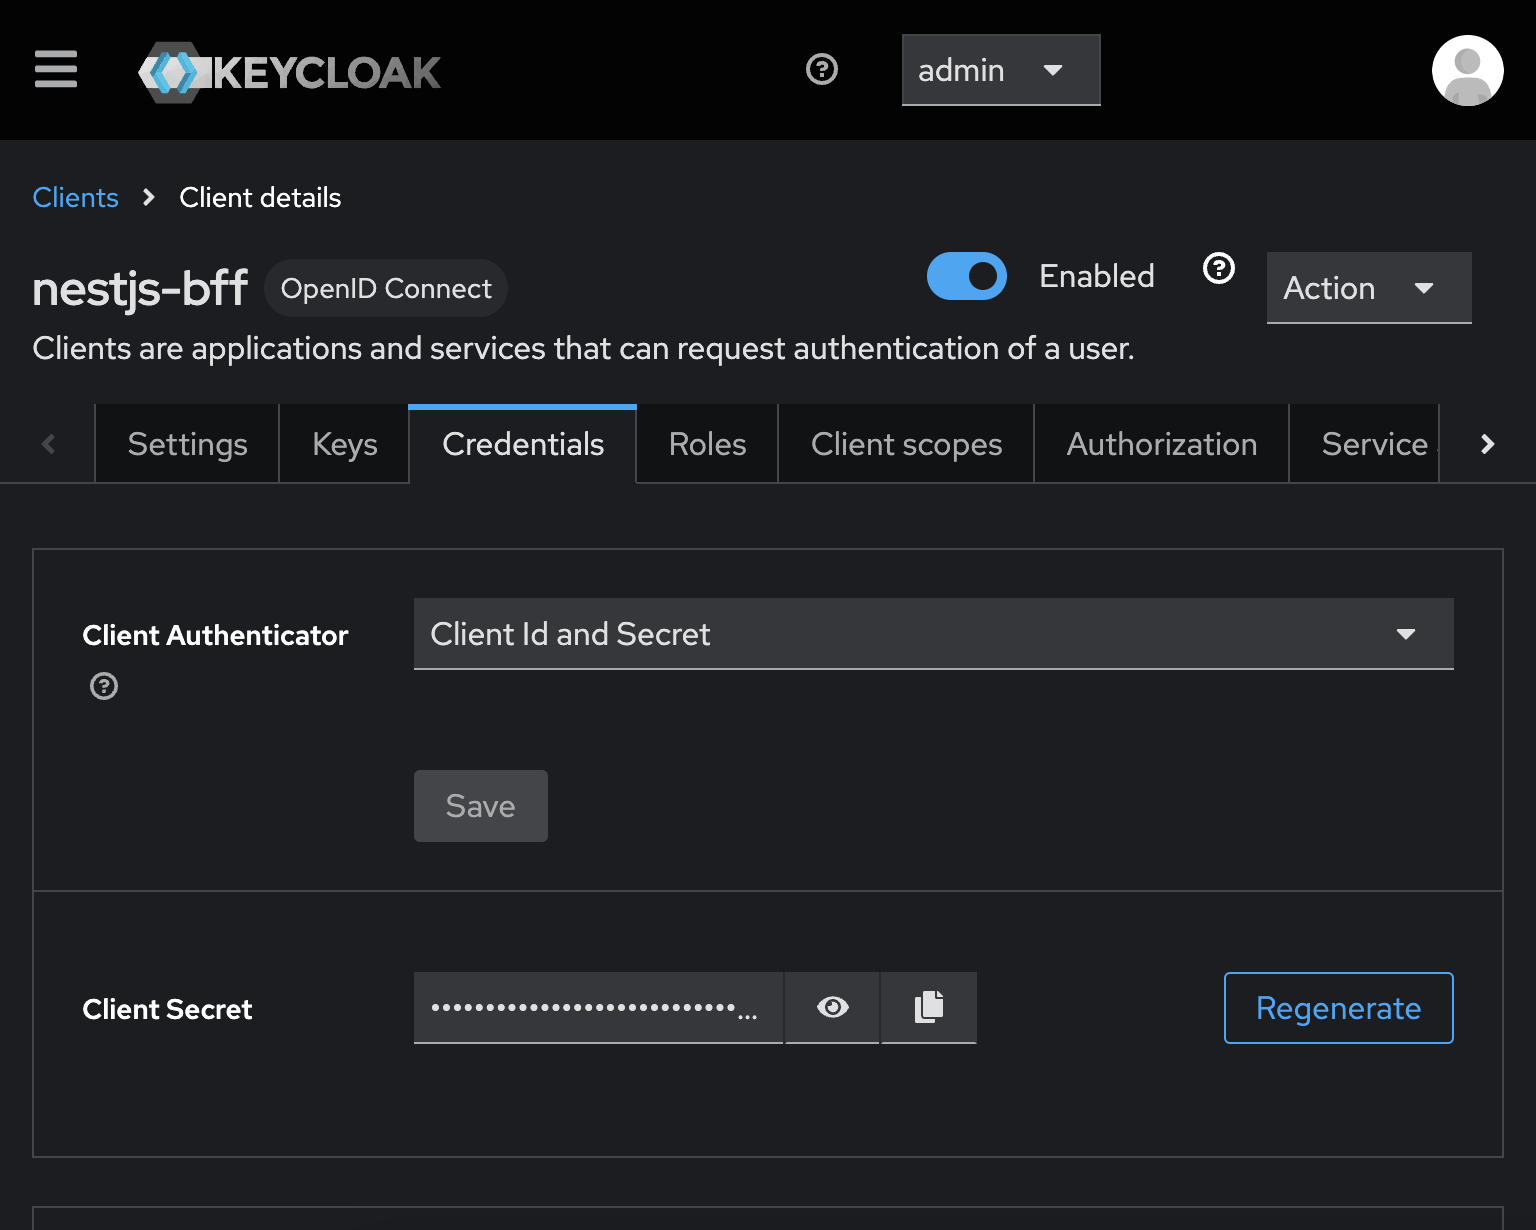
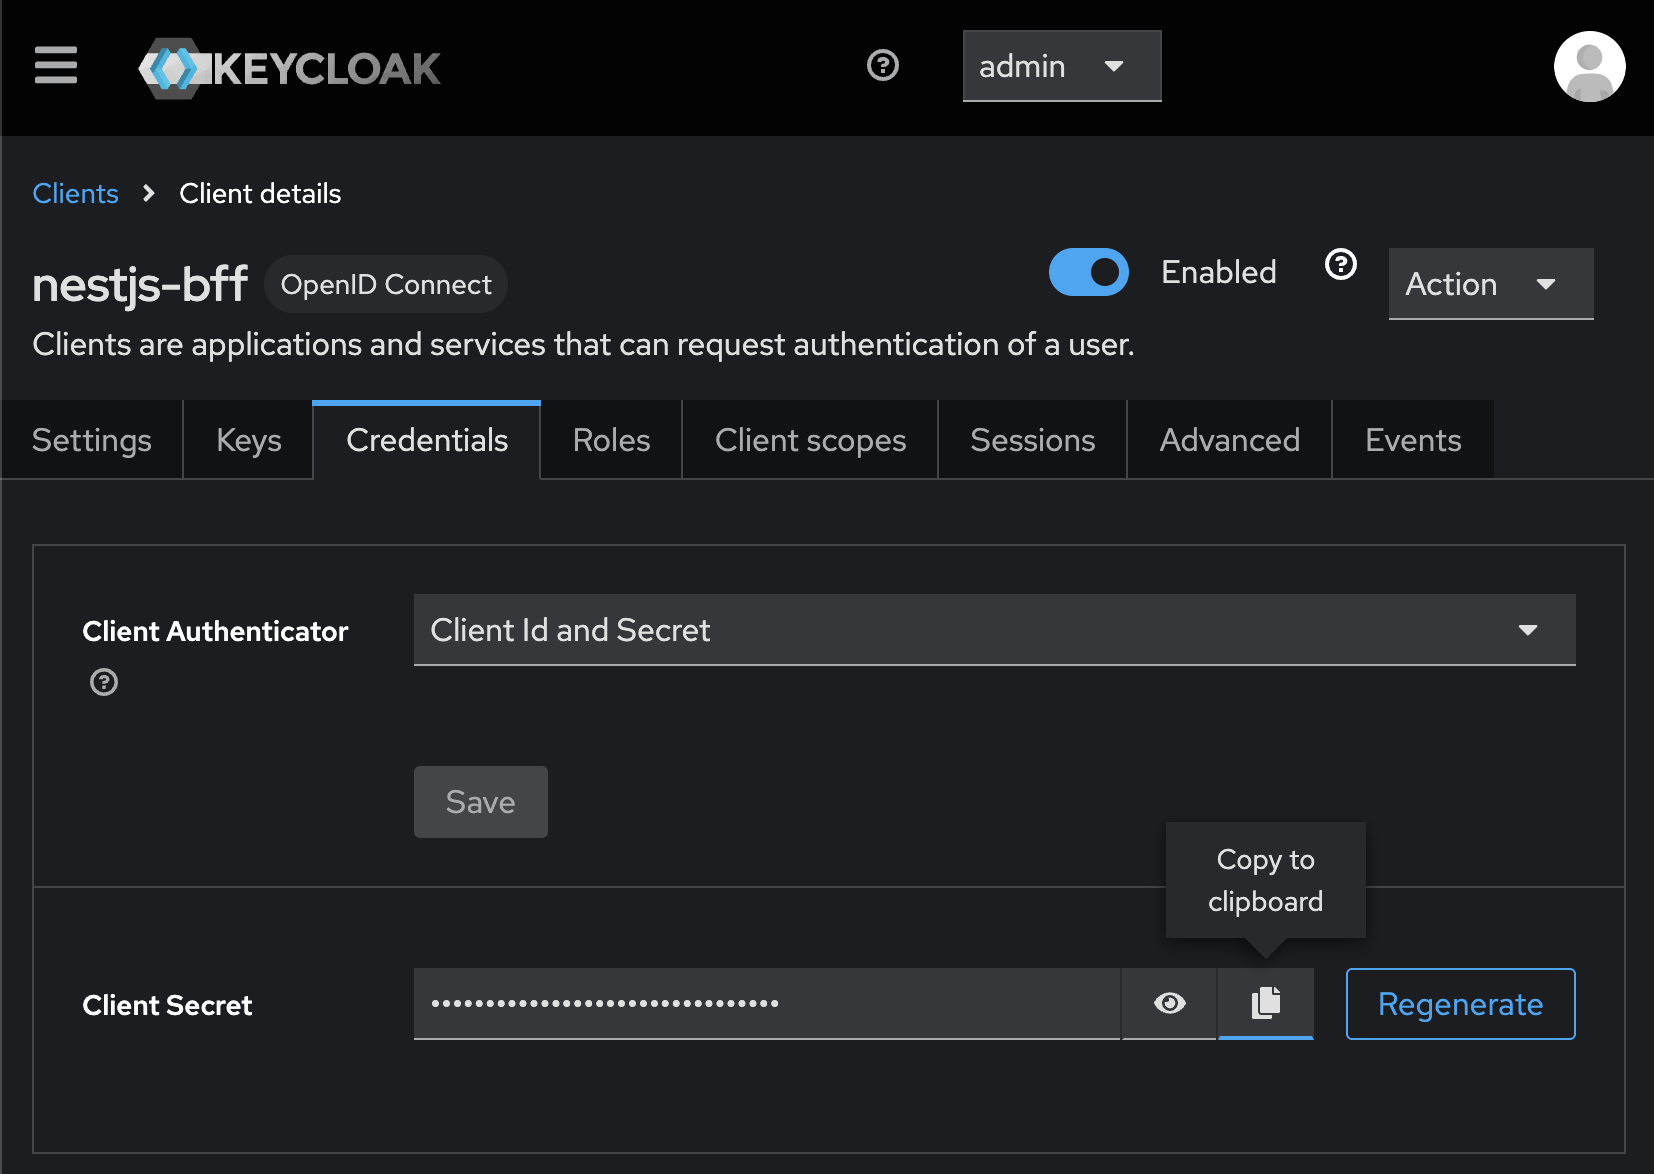
[fix] update README

diff --git a/README.md b/README.md
@@ -57,50 +57,45 @@ The supported types of API endpoint of this BFF is listed in below.
 ### 1. Run the Keycloak Container
 
 ```bash
-$ ./run-keycloak-container.sh [<PORT> <ADMIN_USERNAME> <ADMIN_PASSWORD>]
+$ ./run-keycloak-container.sh [<KEYCLOAK_PORT> <KEYCLOAK_ADMIN_USERNAME> <KEYCLOAK_ADMIN_PASSWORD>]
 ```
 
-### 2. Setup Keycloak
+### 2. Get Keycloak Client Secret
+
+> [!NOTE]
+> Keycloak `dev` realm will be automatically created by importing it from the JSON when the container starts.
 
 #### 2.1. Login Keycloak as Admin User
 
-![Keycloak login page](./img/keycloak-login.png)
+> [!TIP]
+> Please restart your Keycloak container if you cannot access `localhost:<KEYCLOAK_PORT>`.
 
-#### 2.2. Create Keycloak Realm
+![Keycloak admin login page](./img/keycloak-admin-login.png)
 
-![Keycloak realm creation page](./img/keycloak-realm.png)
+#### 2.2. Select Keycloak Realm: `dev`
 
-#### 2.3. Create Keycloak Client
+![Keycloak realms menu tab](./img/keycloak-realms-menu.png)
 
-![Keycloak client creation page 1/3](./img/keycloak-client-01.png)
+![Keycloak realms select page](./img/keycloak-realms-select.png)
 
-![Keycloak client creation page 2/3](./img/keycloak-client-02.png)
+![Keycloak realm top page](./img/keycloak-realm-dev.png)
 
-![Keycloak client creation page 3/3](./img/keycloak-client-03.png)
+#### 2.3. Select Keycloak Client: `nestjs-bff`
 
-#### 2.4. Get Keycloak Client Secret
+![Keycloak clients menu tab](./img/keycloak-clients-menu.png)
+
+![Keycloak clients select page](./img/keycloak-clients-select.png)
+
+#### 2.4. Copy Keycloak Client Secret
 
 ![Keycloak client credentials page](./img/keycloak-client-secret.png)
-
-#### 2.5. Move to Keycloak Client Advanced Settings Tab
-
-![Keycloak client advanced settings tab page](./img/keycloak-client-advanced.png)
-
-#### 2.6. Set Keycloak Client PKCE Code Challenge Method
-
-![Keycloak client PKCE code challenge method setting page](./img/keycloak-client-PKCE.png)
-
-#### 2.7. Create Keycloak User
-
-![Keycloak user creation page](./img/keycloak-user.png)
-
-#### 2.8. Set Keycloak User Password
-
-![Keycloak user password setting page](./img/keycloak-user-password.png)
 
 ### 3. Edit Environment Variables
 
 **Default environment variables are defined in `.env` file.**
+
+> [!IMPORTANT]
+> Please set the environment variable `KEYCLOAK_CLIENT_SECRET` with the value you copied from the Keycloak console.
 
 | Variable Name | Explanation | Default Value |
 | ------------- | ----------- | ------------- |
@@ -149,6 +144,11 @@ $ npm run start:prod
 ### 6. Try to Access API Endpoints of the NestJS App!
 
 **API endpoints are defined on YAML files in `config/` directory.**
+
+> [!TIP]
+> You can login with the below user for testing the API: `/api/auth/login`
+> - username: `myuser`
+> - password: `P@ssw0rd!`
 
 | API Endpoint | Method | Query Parameters | Request Body | Request Headers |
 | ------------ | ------ | ---------------- | ------------ | --------------- |
